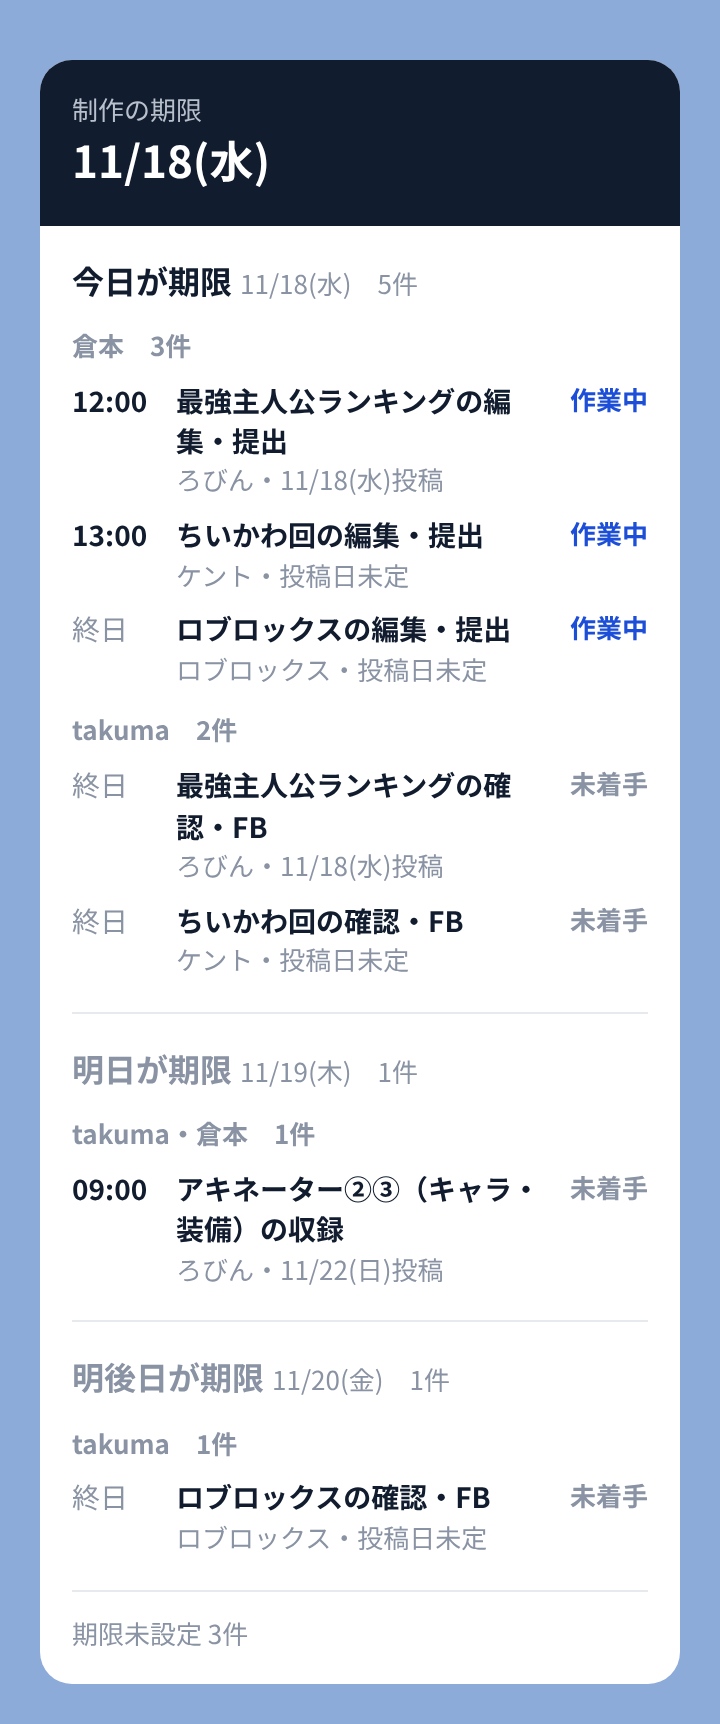
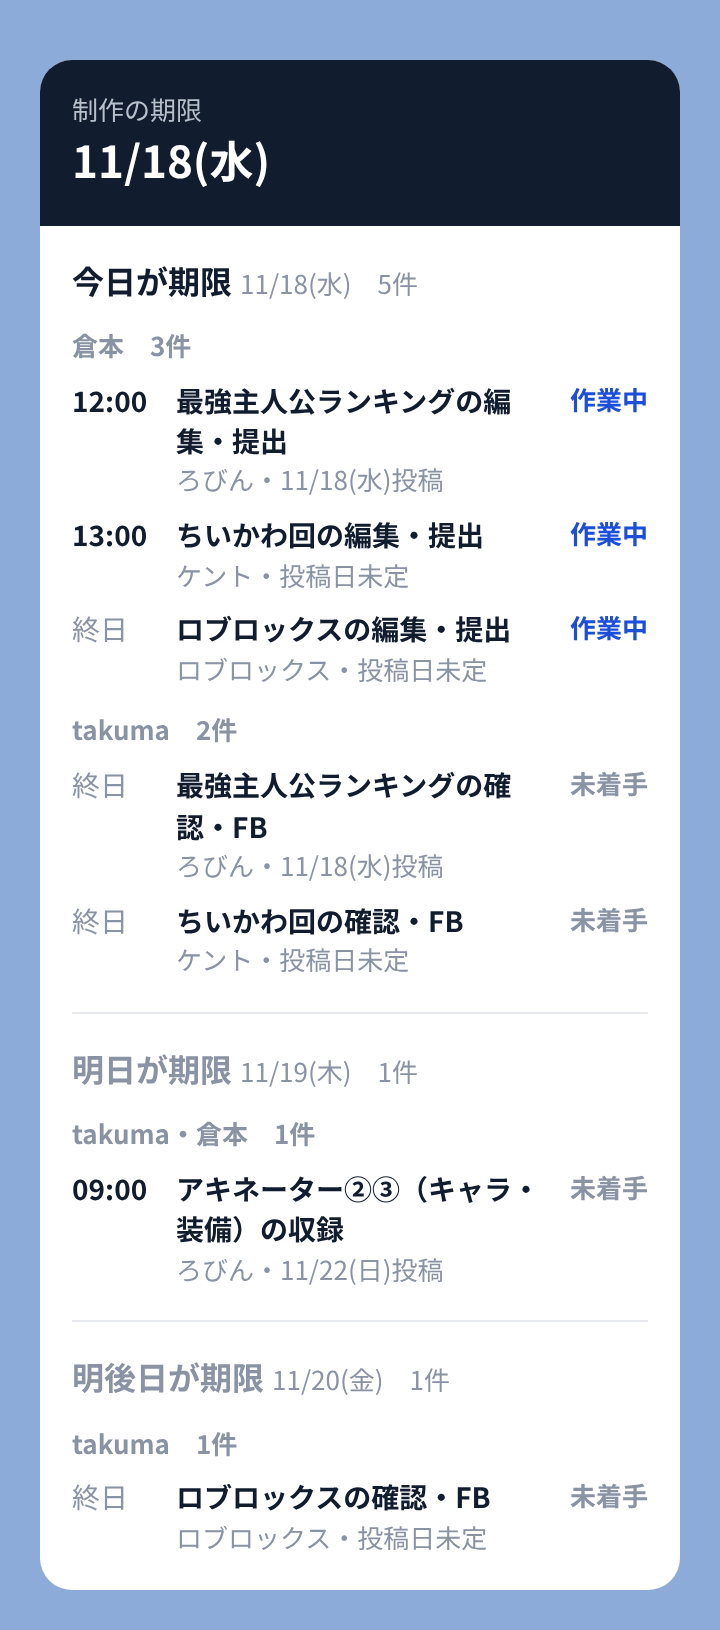
Drop undated-task count from LINE card and text message
Claude-Session: https://claude.ai/code/session_01E3h3wpULDjhoV5gFQ19wFG

diff --git a/README.md b/README.md
@@ -23,7 +23,7 @@
 
 - 期限日は `2026/11/16`、期限時刻は `18:00` の形で入れます。
 - 状態が「完了」「保留」の行は通知に出ません。
-- 期限日が空欄の行は、通知の最後に件数だけ出ます。
+- 期限日が空欄の行は、通知には出ません。閲覧ページの「期限未設定」で確認できます。
 
 ## 導入手順
 
